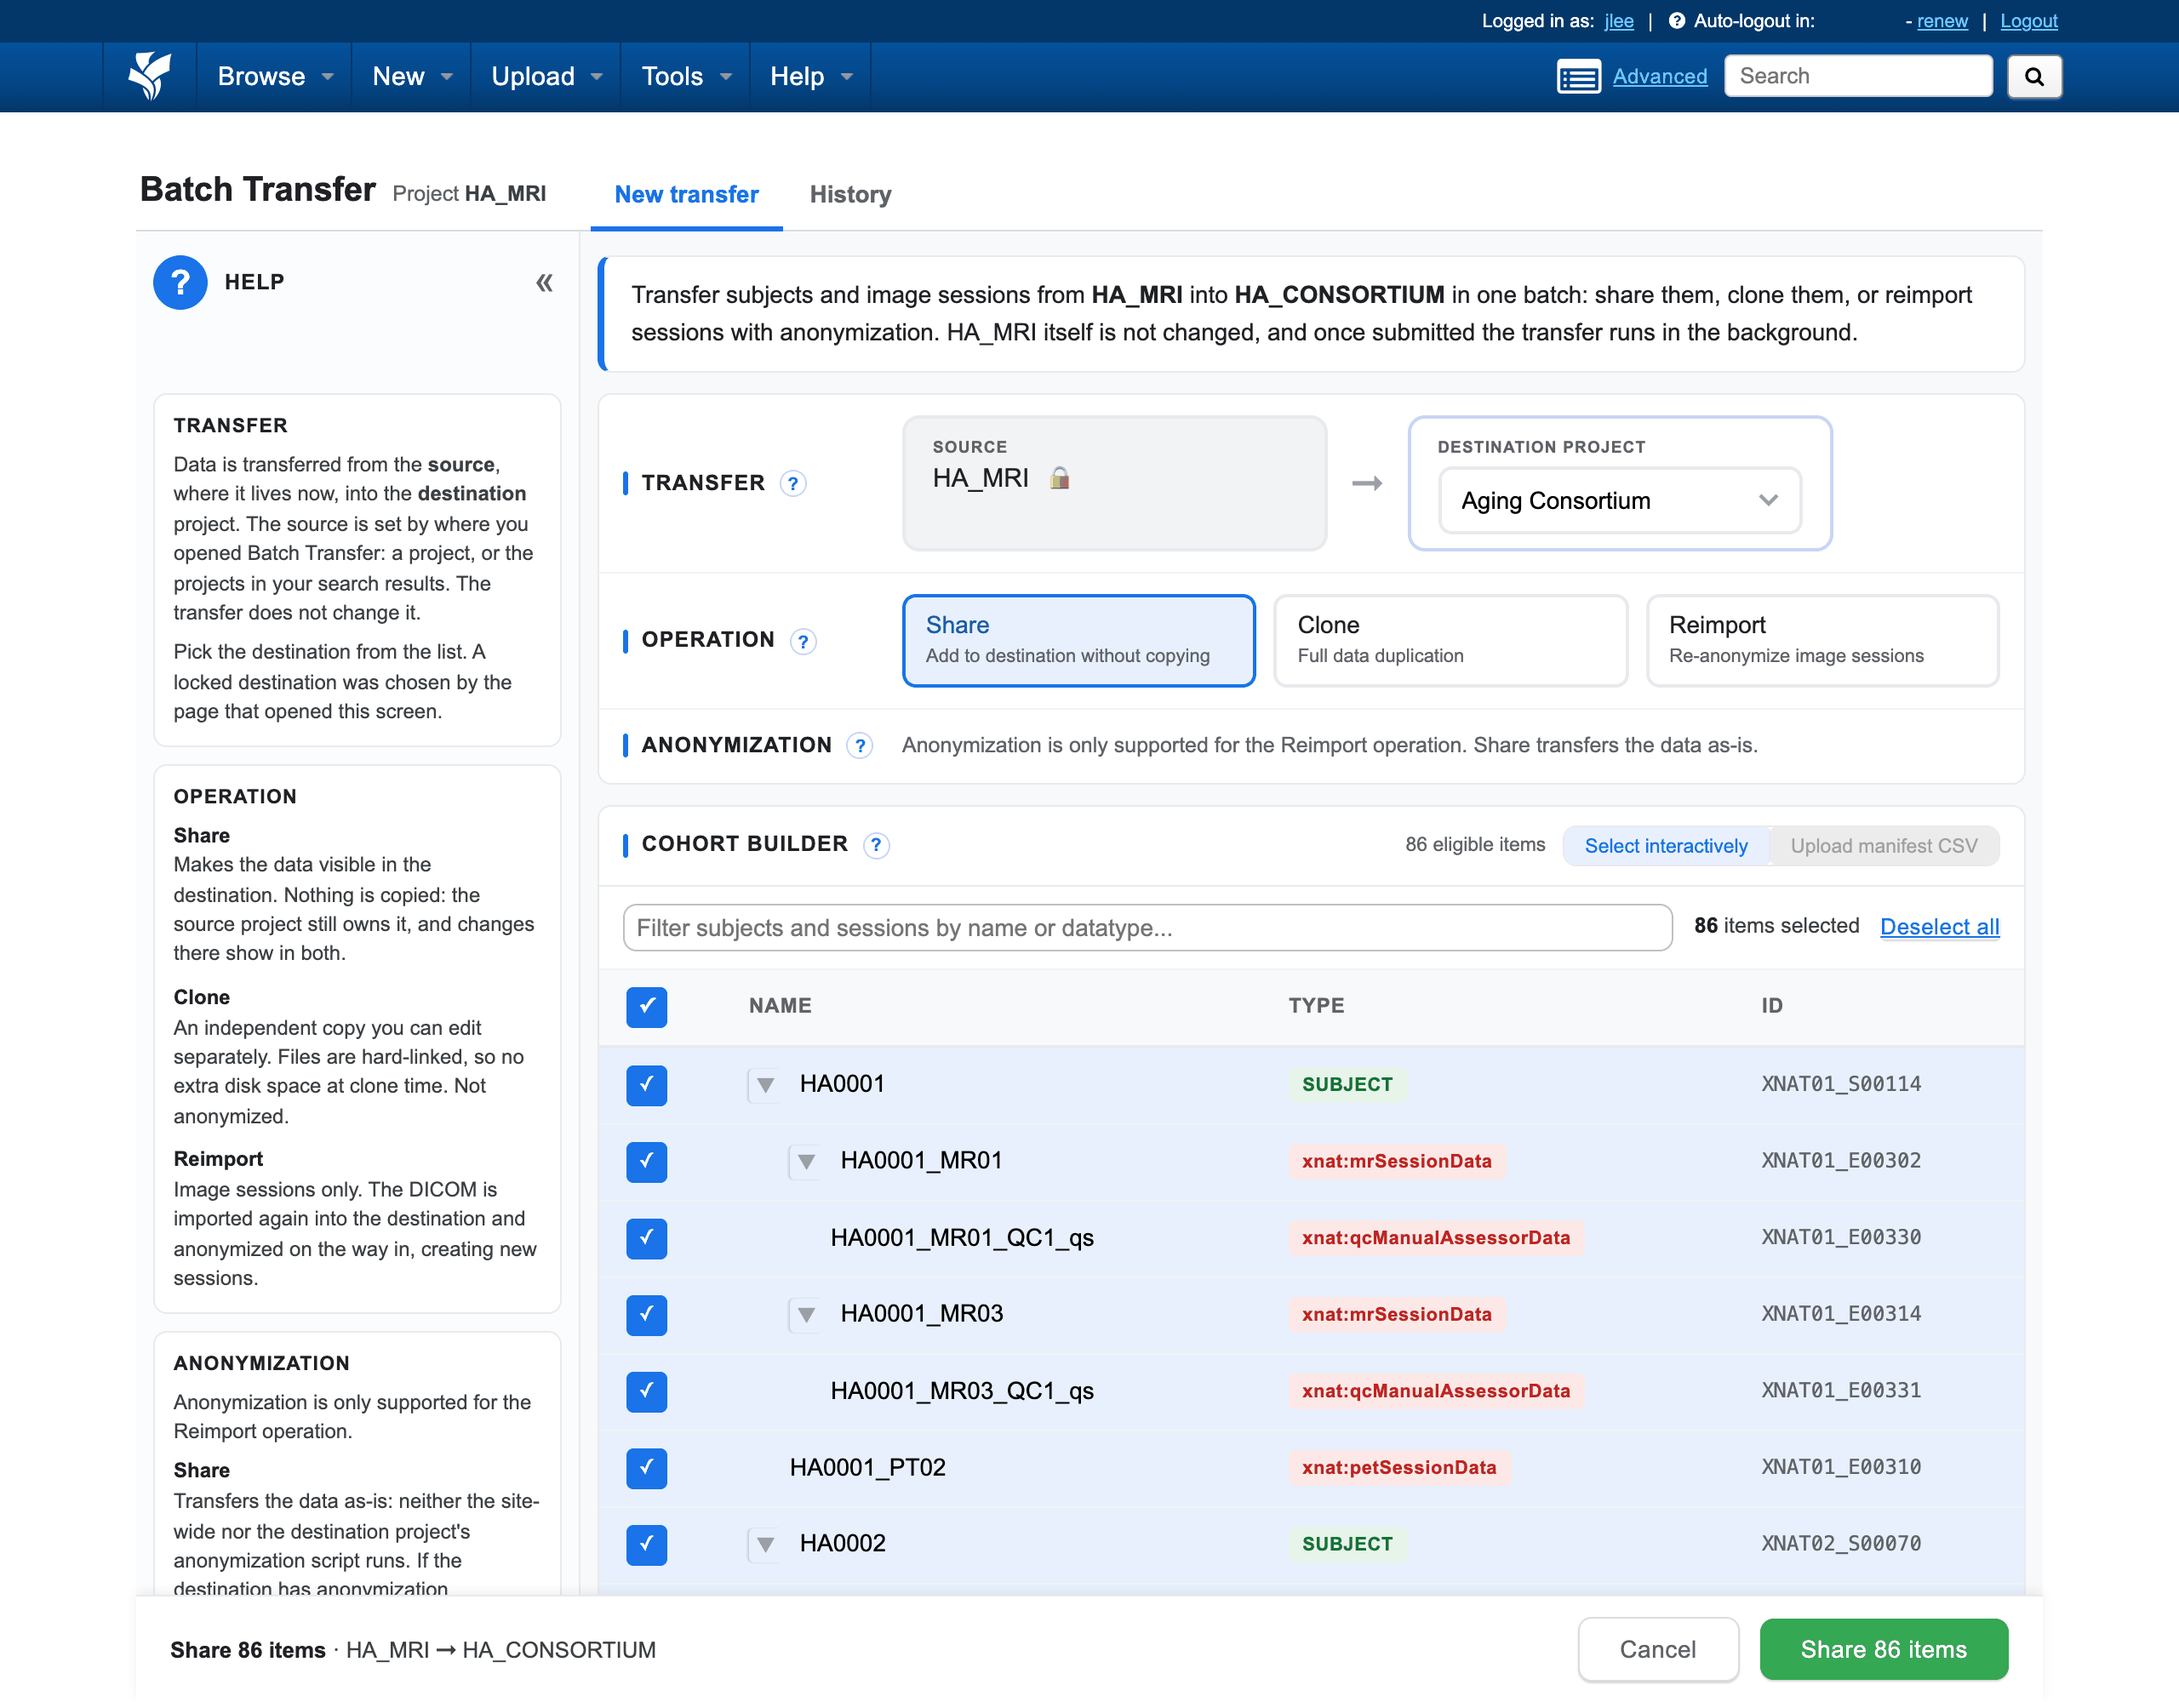
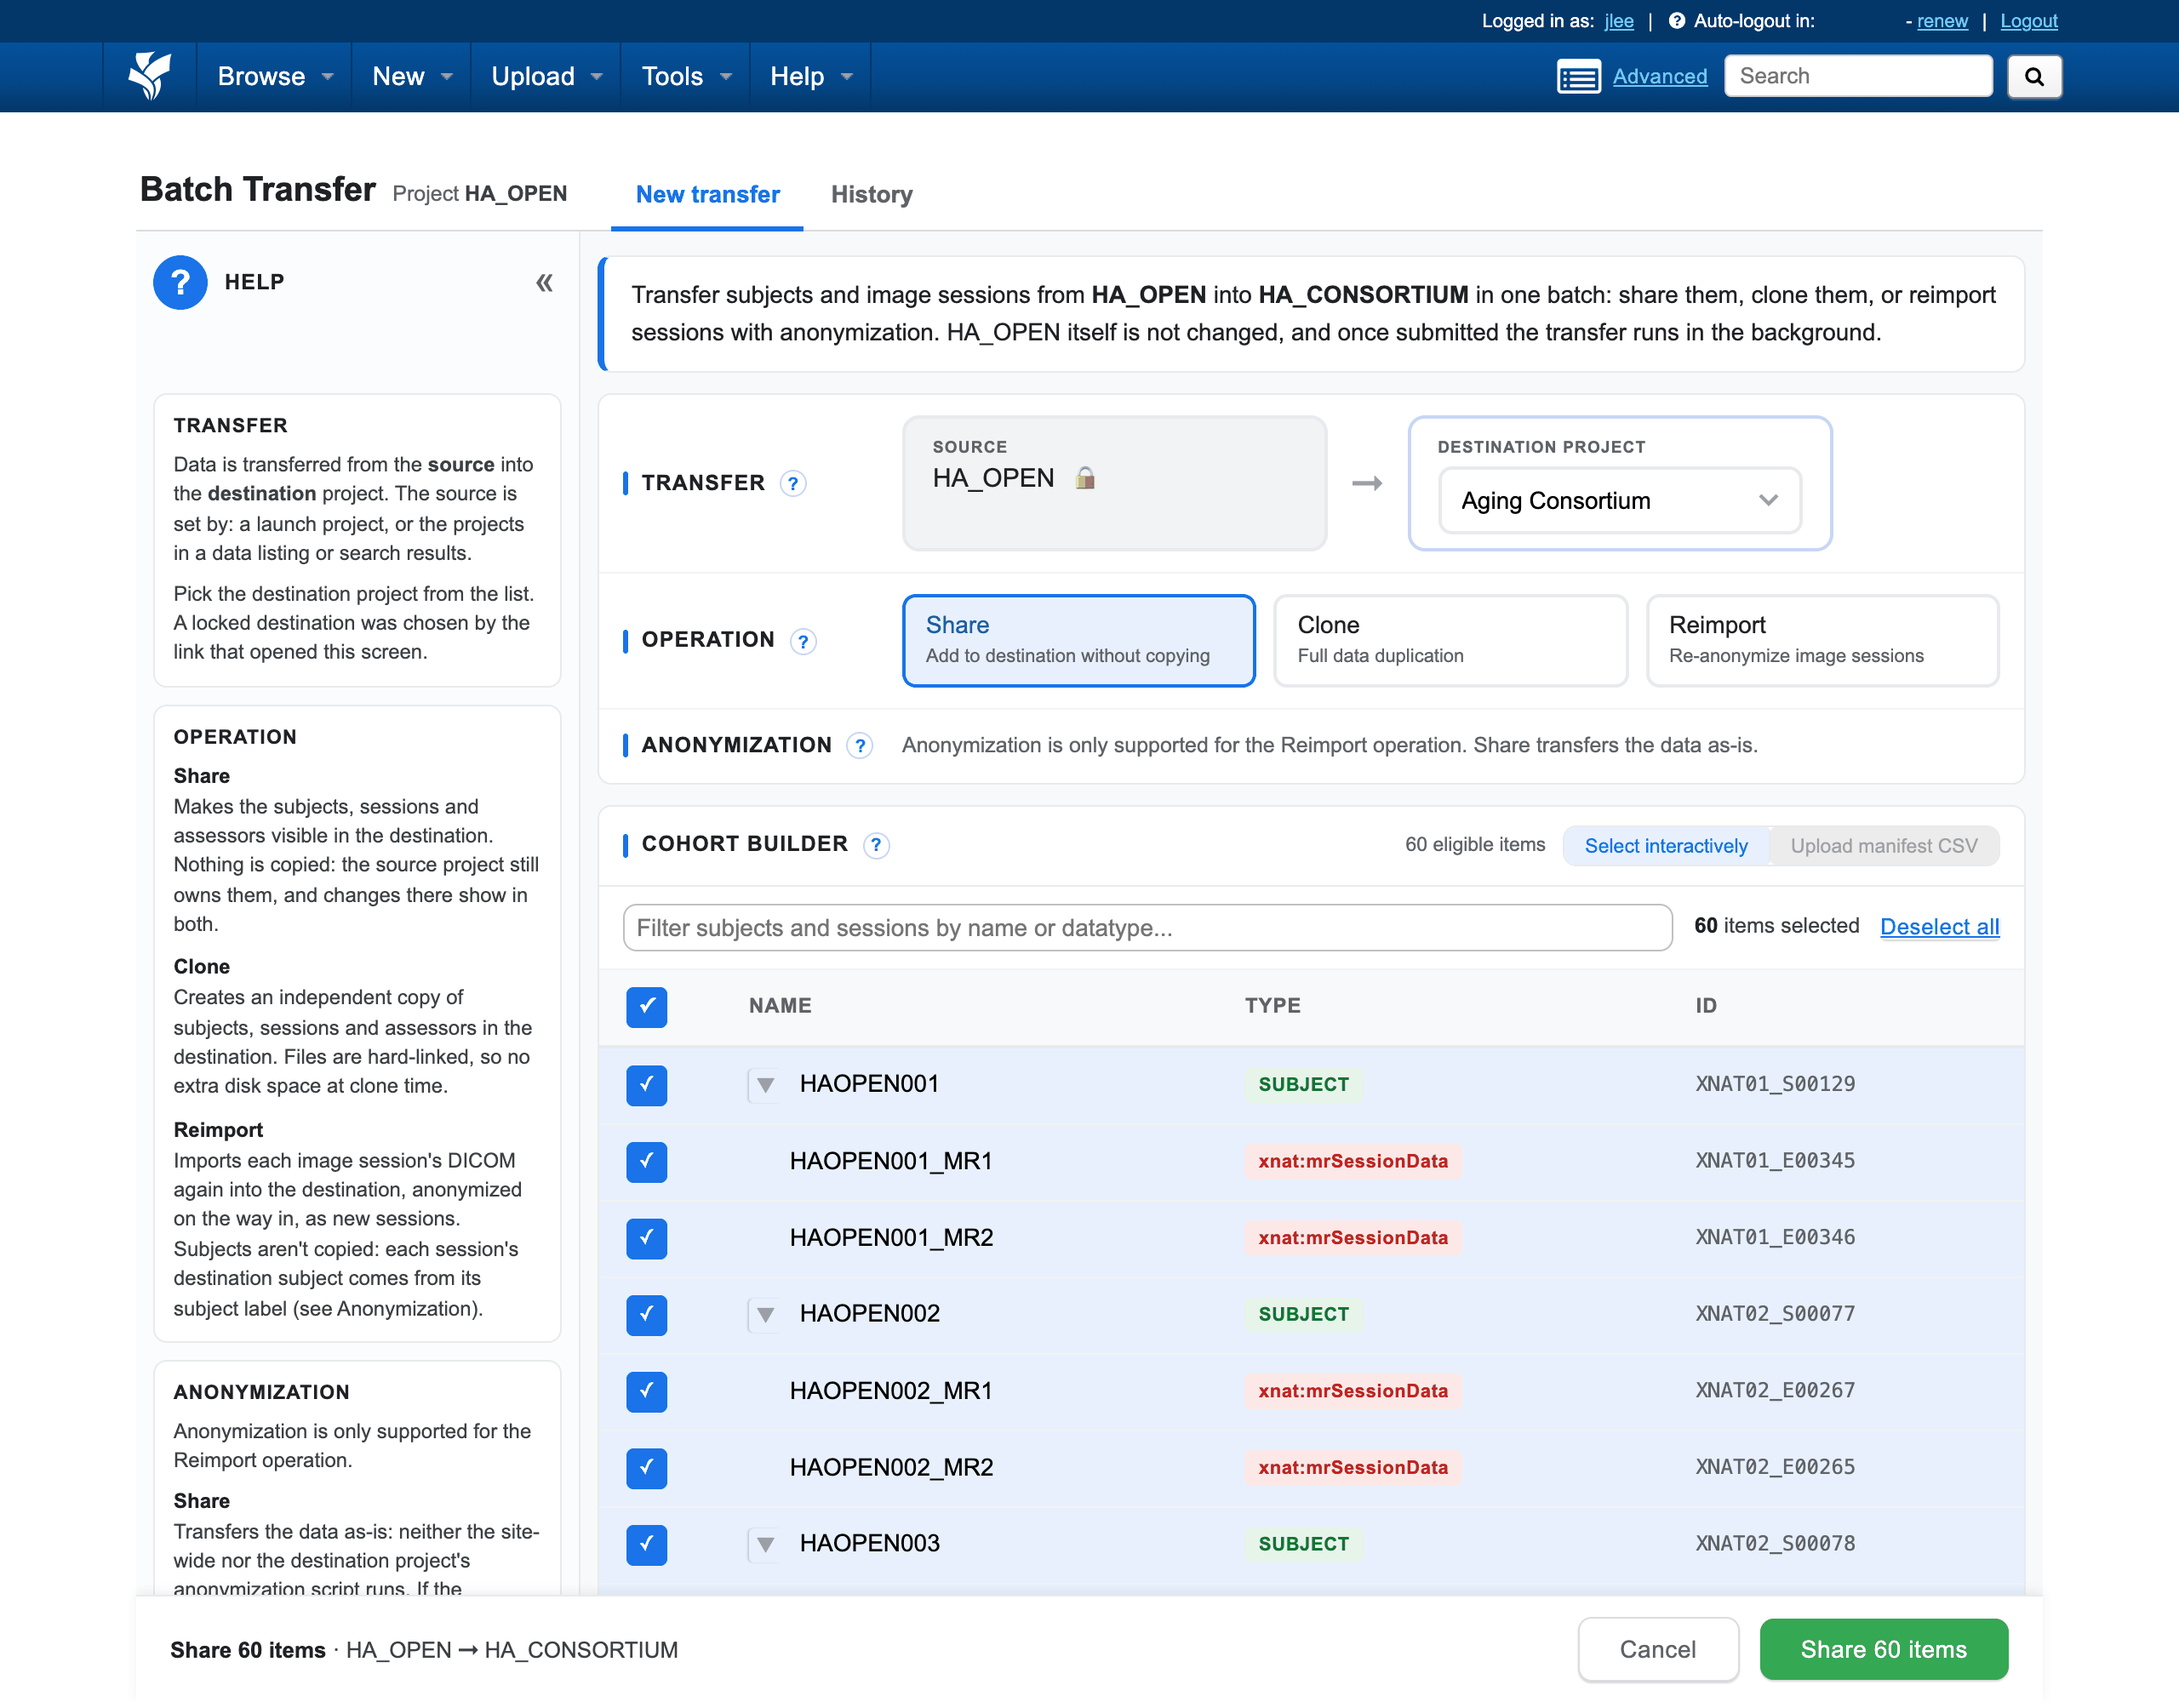
docs: retake the quick start's screen overview and Plugin Settings shots
The screen overview shows the reworded help column. It is taken from
HA_OPEN, since HA_MRI is no longer on the demo site, and its caption
says so. The Plugin Settings shot shows the "Every transfer on this
site" description.

diff --git a/docs/quick-start.md b/docs/quick-start.md
@@ -56,7 +56,7 @@ because a manifest needs a single source project.
 
 ## 3. A tour of the screen
 
-![The Batch Transfer screen opened from HA_MRI, with HA_CONSORTIUM chosen as the destination](quick-start/images/screen-overview.png)
+![The Batch Transfer screen opened from HA_OPEN, with HA_CONSORTIUM chosen as the destination](quick-start/images/screen-overview.png)
 
 The screen has two tabs: **New transfer**, where you set up a transfer, and **History**, which lists past and
 running transfers. New transfer has these parts, from top to bottom:
